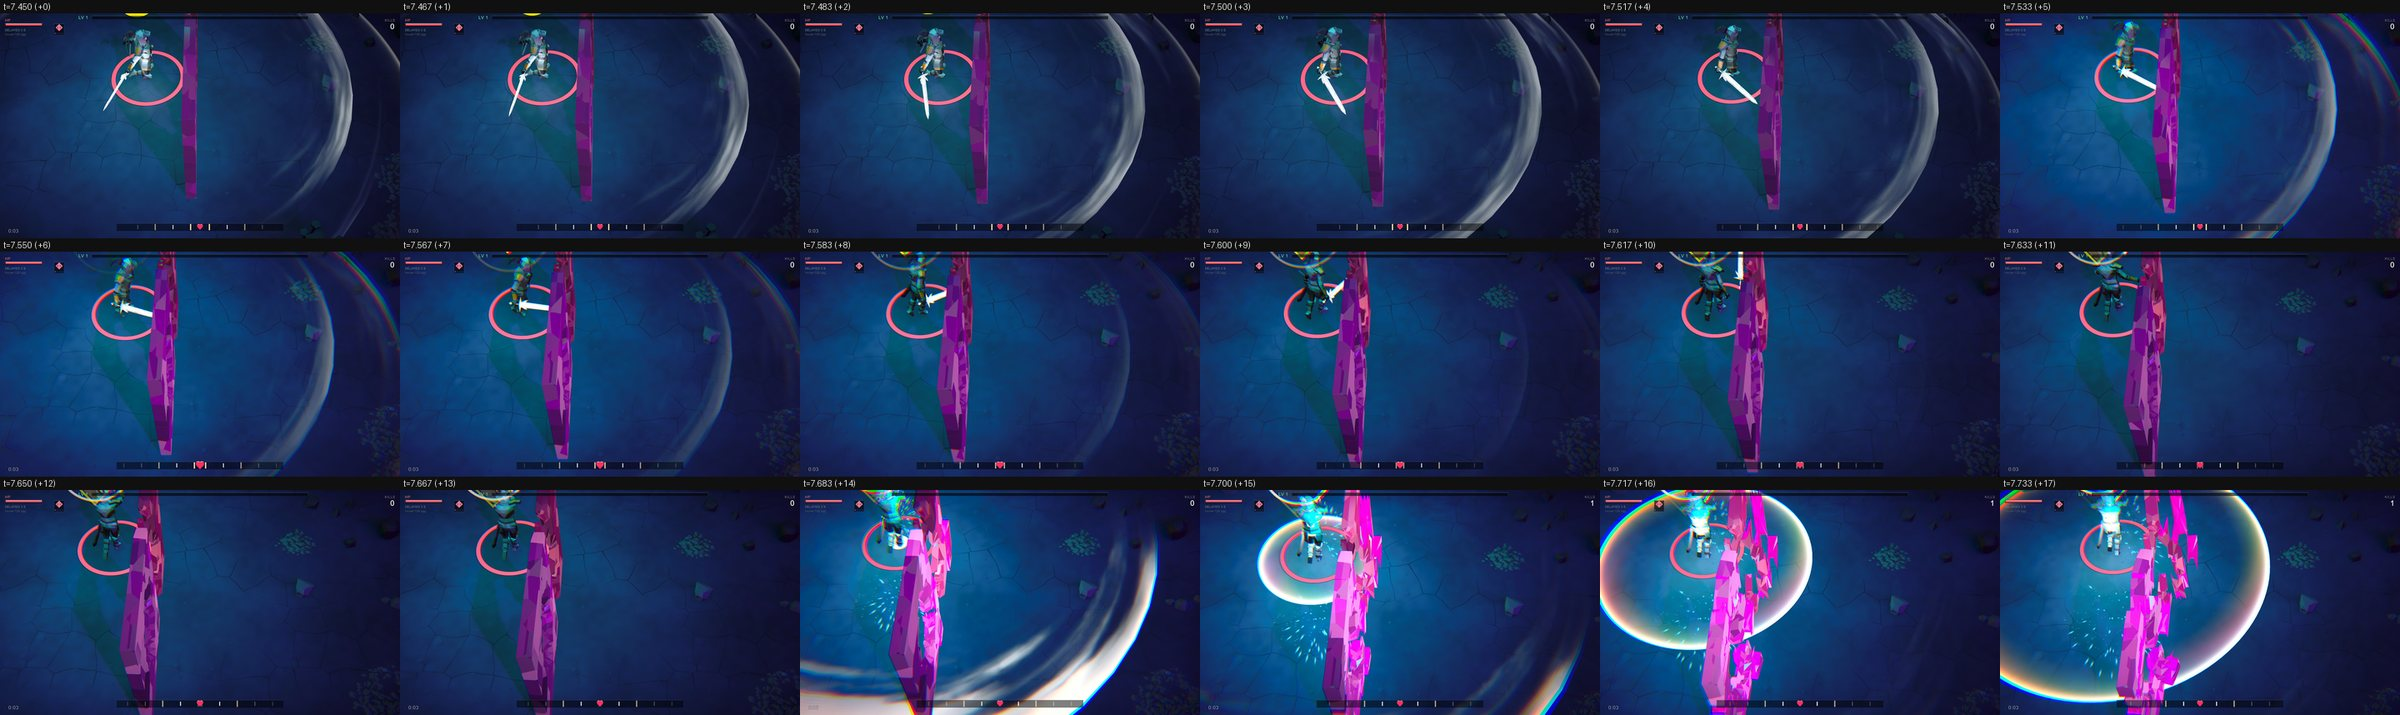
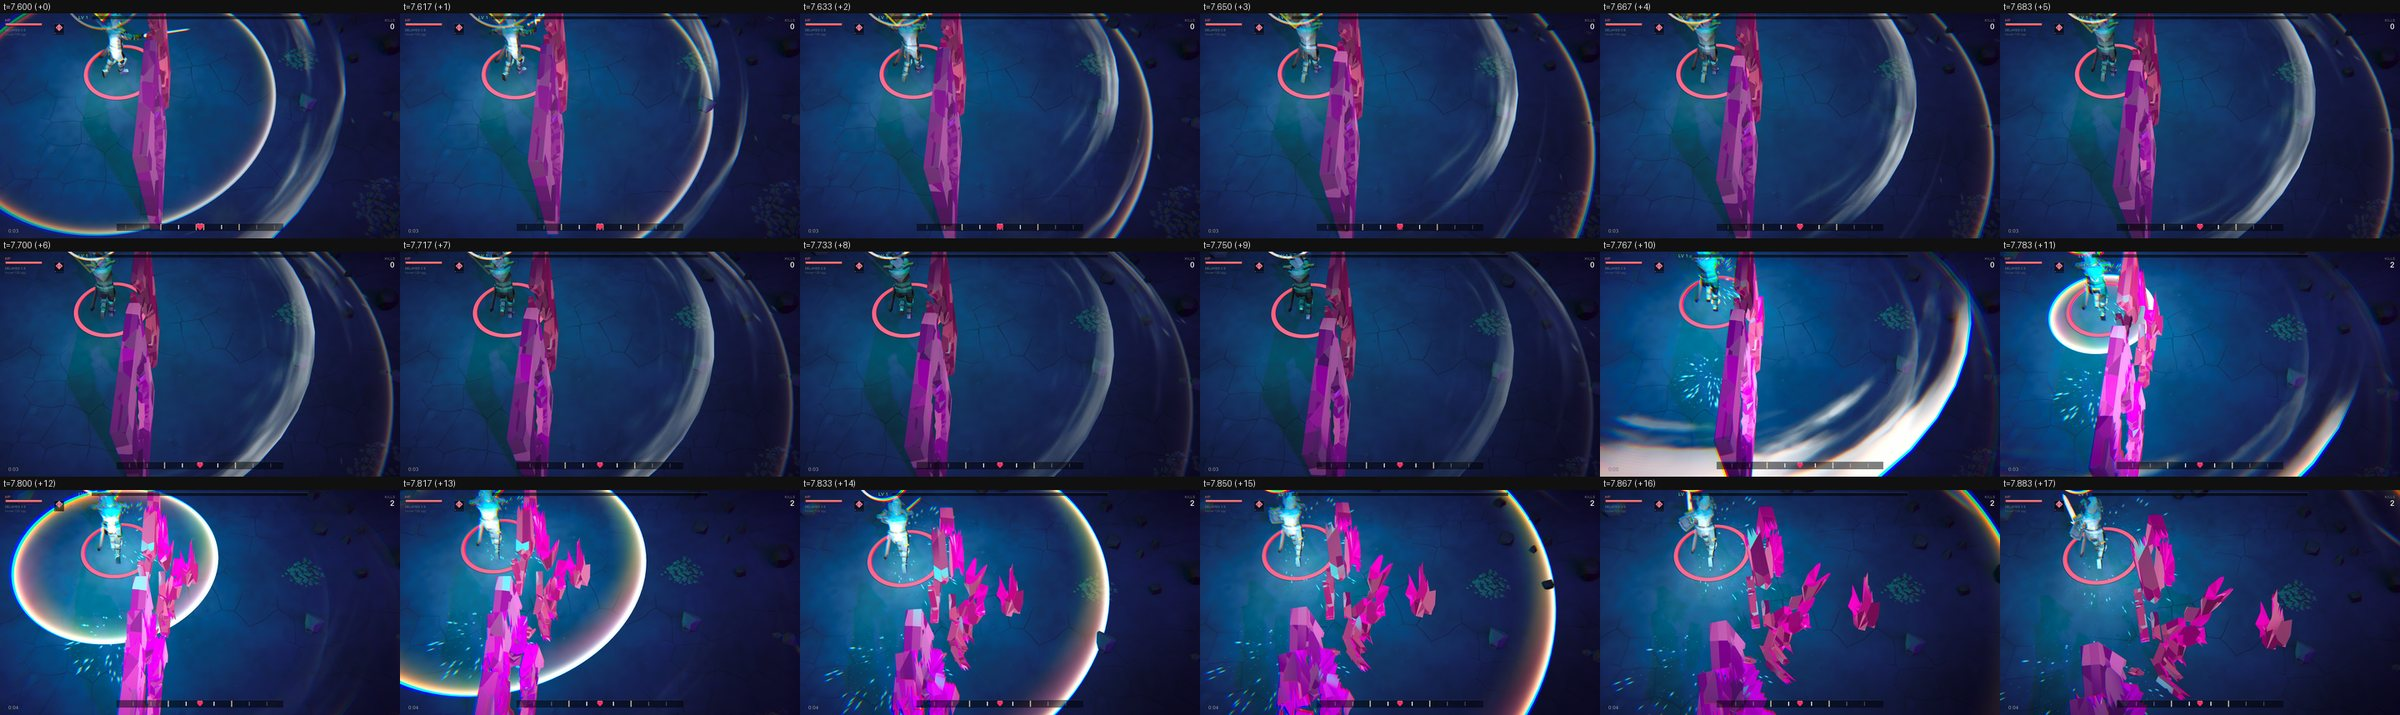
docs(game): react now, land on the grid — the free mode's design closes the early-press question, and its evidence tables each press against its eighth, with a strip of a heavy press winding up on its key-down frame and breaking a wall on the half beat (ps-w9p.1)

diff --git a/game/Assets/Game/Client/Hero/HeroMotion.cs b/game/Assets/Game/Client/Hero/HeroMotion.cs
@@ -57,8 +57,9 @@ namespace Game.Client.Hero
     /// - **Attacks**: each clip is retimed so its impact frame lands on the attack's impact
     ///   (<see cref="HeroClips.Fit"/>; a long wind-up coils rather than starting late), entered no earlier than the
     ///   wind-up, so the swing before it keeps its own impact, and showing on its entry frame. A free press's wind-up
-    ///   starts at the press, in heard time, so it arrives on the key-down frame, as a pressed step does. Slashes alternate left and right; a follow-up continues the combo from
-    ///   the swing before (left, right, then the third); heavy strikes spin and section changes slam,
+    ///   starts at the press, in heard time, so it arrives on the key-down frame, as a pressed step does. Slashes
+    ///   alternate left and right; a follow-up continues the combo from the swing before (left, right, then the
+    ///   third); heavy strikes spin and section changes slam,
     ///   holding 50 ms at 0.6x after the impact as demo3d's heavy blows do. The hero turns to the
     ///   swing's direction from its wind-up to its follow-through.
     /// </summary>

diff --git a/game/evidence/operator-pending.md b/game/evidence/operator-pending.md
@@ -42,4 +42,5 @@ operator (epic ps-msz; native's own list is native/evidence/operator-pending.md)
 | The payoff's sound by ear (ps-msz.8.6) | With the speakers on, play from minute 25 with Garlic's evolution and Holy Wand, walking the knight into the horde, then let the finale fire at 60 s: Soul Eater's pulse still swells on its beat though its sound now starts a few hundredths into its clip (its lead-in is longer than the lead allows; the start's timing is measured in Unity's mix since ps-msz.8.13, so listen for how it sounds), and the evolution's transformation sound at 5 s too; the busy peak never drops a swing or cuts one short (the pool is now 64 voices, the hero's own spared); the finale is one crash of glass. Note any sound that clicks as it starts or stops, or a pulse that reads as clipped | `just game --run --file "$PWD/public/reactive/cc-kevin-macleod-go-cart/cc-kevin-macleod-go-cart.ogg" --start-minute 25 --debug "evolve:soul-eater@5,evolve:holy-wand@5,finale@60"` | ps-msz.8.6 | ps-msz.10 |
 | A windowed run's timing log (ps-sba) | Play a minute of any track in a window, then run `just game-tool log`: the newest session's summary has GPU and render-thread times (not missing as in batch mode), intervals near your display's refresh, and any hitch you saw listed at its song time. Note a hitch you saw that it doesn't list | `just game --run --file "$PWD/public/reactive/house-128/house-128.ogg"`, then `just game-tool log` | ps-sba | (none yet) |
 | M5 needs a vizier on Cygnus (ps-msz.9.1) | M5's beads (ps-msz.9.2 to ps-msz.9.14: native's workspace and the plugin on Windows, the Windows player, Delayed listening with the guardian process, performance against the targets) are pinned to Cygnus (`enact_host=cygnus`), so the Mac's vizier never runs them and the run waits for them. On Cygnus, with the start-up checkout at `C:\src\playlist_survivors` pulled clean, start a Claude Code session there and run the command: its vizier picks up M5 (ps-msz.9.3 is ready first). Keep Cygnus awake, Unity licensed and the vendor sources on D: while it runs; steps that need administrator rights come back as rows here | `/enact-plan ps-msz` | ps-msz.9.1 | ps-msz.9.14 |
-| The free mode by hand (ps-y21) | With the speakers on, play house-128 in the slice in the free mode. Walk with the arrows (eight ways), then click and hold on the arena: the knight runs smoothly, turns on the frame the key goes down, follows the held cursor and stops on a click's point, and slides along structures. Press Z on the beat, then between beats, then mash it: on the beat (or the half beat) the slash is full size; clearly off it, visibly smaller and weaker; mashing swings at most about five times a second; on an accented beat a full press spins with its cleave wave. Play the piano aria's beatless opening too: every press is full. Note whether 70 ms reads as generous enough, the 80 ms from press to impact as laggy, the run cycle as sliding, or the walk as too unrhythmic (docs/design/game-modes.md, Open questions) | `just game --mode free --file "$PWD/public/reactive/house-128/house-128.ogg"`, then `--file "$PWD/public/reactive/cc-kimiko-ishizaka-aria/cc-kimiko-ishizaka-aria.ogg"` | ps-y21 | ps-y21's follow-ups |
+| The free mode by hand (ps-y21) | With the speakers on, play house-128 in the slice in the free mode. Walk with the arrows (eight ways), then click and hold on the arena: the knight runs smoothly, turns on the frame the key goes down, follows the held cursor and stops on a click's point, and slides along structures. Press Z on the beat, then between beats, then mash it: on the beat (or the half beat) the slash is full size; clearly off it, visibly smaller and weaker; mashing swings at most about five times a second; on an accented beat a full press spins with its cleave wave. Play the piano aria's beatless opening too: every press is full. Note whether 70 ms reads as generous enough, the run cycle as sliding, or the walk as too unrhythmic (docs/design/game-modes.md, Open questions) | `just game --mode free --file "$PWD/public/reactive/house-128/house-128.ogg"`, then `--file "$PWD/public/reactive/cc-kimiko-ishizaka-aria/cc-kimiko-ishizaka-aria.ogg"` | ps-y21 | ps-y21's follow-ups |
+| React now, land on the grid by hand (ps-w9p.1) | With the speakers on, play house-128 in the slice in the free mode, then hiphop-92-swing. Press Z on the beat, on the half beat, just before each and mashing: the knight starts its swing on the frame the key goes down, and the blow, the kill sound and the shatter land on the next beat or half beat, never between. Note whether that eighth's wait (about a quarter second at 128 BPM) reads as a weighty wind-up or as lag, whether a press just before an eighth (a short, part-way wind-up) reads as snappy or clipped, and on the slow track whether the long wind-up's coil reads as anticipation or as a stall. Evidence: game/evidence/free-mode (docs/design/game-modes.md, Attacking on the beat; Open questions) | `just game --mode free --file "$PWD/public/reactive/house-128/house-128.ogg"`, then `--file "$PWD/public/reactive/hiphop-92-swing/hiphop-92-swing.ogg"` (92 BPM) | ps-w9p.1 | ps-w9p's follow-ups |

diff --git a/docs/design/game-modes.md b/docs/design/game-modes.md
@@ -79,10 +79,28 @@ song time, cycling the run clip once per 3 m walked, with no hop.
 
 The sword never strikes by itself. Z (the sim's `Key.Attack`) swings it:
 
-- **Timing**: a press heard at h, taken at F, winds up at once and lands at
-  `max(h + 0.08 s, F + a tick)`. Presses' impacts are at least 0.2 s apart (the swing). A press that
-  would wait more than 0.1 s for the swing before it is dropped, so mashing swings at most five
-  times a second, and a press mid-swing never queues.
+- **Timing: react now, land on the grid** (ps-w9p.1, Hi-Fi Rush's answer). Landing kill sounds and impact
+  FX on the beat is much of why the trailer works, but the knight must answer Z at once. So a press heard
+  at h winds up from h, in heard time like the walk's keys, so the knight is in the attack on the key-down
+  frame, and its impact lands on the **first eighth** of the beat (a beat or half beat, from the beats
+  revealed then) at least **0.12 s** (`Sword.GridWindupS`) after h. The blows, deaths, kill sounds,
+  shatters and structure breaks all follow the impact, so they land on the grid too.
+  - A press in time therefore hits an eighth later: one on the beat lands on the half beat after it,
+    one on the half beat on the next beat. 0.12 s keeps that true for every full-grade press up to about
+    158 BPM, and leaves the slash clips a visible wind-up even at their fastest retime; at 120 BPM a press
+    in time waits 0.18-0.32 s, about the clips' whole wind-up.
+  - The clip is retimed to fill the wait (`HeroClips.Fit`): from its first frame at the press when the wait
+    fits 0.75x-1.33x; a shorter wait (a press just before an eighth) enters it part-way, still in the
+    wind-up; a longer one (a slow tempo, a late press) **coils**, playing the first 60% of the way to the
+    impact slowly, then the strike at 0.75x, rather than starting late with nothing on screen.
+  - With no reliable beat at the press there is no grid: the impact is `max(h + 0.08 s, F + a tick)`, as
+    before.
+- **The swing**: presses' main impacts are at least 0.2 s apart, on the next eighth that leaves that much
+  (so faster than 150 BPM, where an eighth is shorter than the swing, a press skips one). A press that would
+  wait more than 0.1 s past its own landing for the swing before it is dropped: on the grid, one that would
+  land on the eighth the pending swing already has. That swing is on screen, so a press is never swallowed
+  while the knight shows nothing. A press during the swing before winds up from that swing's impact, which
+  it keeps.
 - **Grade** (`BeatGrade`): the press, in heard time, against the nearest beat or half beat of
   its beat interval. Within 70 ms it is full; from there it falls linearly to 0.5 at a quarter
   beat off, the furthest a press can be from that grid. At 120 BPM a press is full for about
@@ -93,9 +111,11 @@ The sword never strikes by itself. Z (the sim's `Key.Attack`) swings it:
 - **Heavy**: a full-grade press measured from a beat (not a half beat) that is accented, as the
   grid's heavy strikes ask (a strong onset or accent forecast within 50 ms), is a heavy spin
   with its cleave wave, which breaks structures. Once per beat. F6's forced accent makes the next
-  press heavy.
-- **Amount** (the sword's rank 2 on, Duplicator and the like) adds follow-up strikes spread over
-  the swing; they never delay the next press, whose impact needs only 0.2 s after the last press's.
+  press heavy. The spin lands an eighth after the accent, like any press in time, and its cleave's
+  bands follow on the grid: the first on the eighth after the impact, the rest a sixteenth apart.
+- **Amount** (the sword's rank 2 on, Duplicator and the like) adds follow-up strikes spread evenly
+  to the next eighth (rank 2's on the sixteenth; over the swing with no beat); they never delay the
+  next press, whose impact needs only 0.2 s after the last press's.
 - Free presses never slam on a section change.
 
 The other weapons (wand, bible, lightning, garlic, fire trail) keep firing on the beat by
@@ -111,7 +131,10 @@ themselves, aimed from wherever the hero walks.
 
 - Is 70 ms the right full-grade window, and 0.5 the right floor? Both are constants in
   `BeatGrade`.
-- Should an early press's impact wait for the beat it was graded on, so the hit lands on it?
-  Today every impact comes 80 ms after the press.
+- Does the eighth's wait from press to impact (about 0.25 s at 120 BPM) read as weighty or as laggy,
+  and does the coil read as anticipation or as a stall at slow tempos? (Closed: an early press's impact
+  now waits for the grid, ps-w9p.1.)
+- Should a heavy land on the accent itself (a press an eighth before it) rather than an eighth after a
+  press on it? Today the grade and the heavy are both judged on the press.
 - Does the walk need a pulse on the beat to read as rhythmic, now that the hero glides?
 - Click-to-move without path finding: is pressing against a wall acceptable?

diff --git a/game/evidence/free-mode/README.md b/game/evidence/free-mode/README.md
@@ -14,7 +14,7 @@ WALK="right@6-7.5,up@7-8.5,left@8.5-9.5,z@6.5-6.52,z@6.6-6.62,z@7.0-7.02,z@7.25-
 EXE="game/Builds/mac/mono/PlaylistSurvivors.app/Contents/MacOS/Playlist Survivors"
 "$EXE" -batchmode -force-metal --fixed-time --no-session --mode free --file "$PWD/public/reactive/house-128/house-128.ogg" \
   --walk "$WALK" --seconds 11 --events-out captures/game/free-mode/events.csv --hero-out captures/game/free-mode/hero.csv
-uv run --project demo3d/tools game look free-mode --backend mono --at 7.45 --frames 18 --strip 6 --evidence free-mode \
+uv run --project demo3d/tools game look free-mode --backend mono --at 7.6 --frames 18 --strip 6 --evidence free-mode \
   --player-args "--mode free --file $PWD/public/reactive/house-128/house-128.ogg --walk $WALK --view-width 10"
 ```
 
@@ -23,22 +23,28 @@ uv run --project demo3d/tools game look free-mode --backend mono --at 7.45 --fra
 - **The walk**: 11 HeroGlide events and no HeroStep. The drawn hero moves 0.0752 m a frame on each
   axis on the diagonal (6.4 m/s, a 1.5 m tile per 0.234 s stride step), at off-grid points such as
   (8.036, -1.347), with the run clip weighted 1 and no hop.
-- **The swings**, as `events.csv` has them (press, impact, reach; full reach is 7.037 m):
+- **The swings** (since ps-w9p.1: react now, land on the grid), as `events.csv` has them: each attack's wind-up
+  start, impact and reach (full reach is 7.037 m), against the beat. The tracker's beats here are 0.47 s apart
+  (6.12, 6.59, 7.06, 7.53, 8.00, 8.47, 8.93, 9.40), so the eighths fall on them and halfway between:
 
-  | Press (s) | Impact (s) | Reach (m) | Grade | Note |
-  |---|---|---|---|---|
-  | 6.50 | 6.58 | 5.56 | 0.79 | off the beat |
-  | 6.60 | 6.78 | 7.04 | 1 | mid-swing: waited for the swing, 0.2 s after the one before |
-  | 7.00 | 7.08 | 7.04 | 1 | |
-  | 7.25 | 7.33 | 7.04 | 1 | |
-  | 7.60 | 7.68 | 9.15 | 1 | on an accented beat: a heavy spin (x1.3 reach) |
-  | 8.00 | 8.08 | 7.04 | 1 | |
-  | 8.35 | 8.43 | 3.70 | 0.53 | close to a quarter beat off |
-  | 8.90 | 8.98 | 7.04 | 1 | |
+  | Press (s) | Wind-up from (s) | First eighth 0.12 s on | Impact (s) | Grid point | Reach (m) | Grade | Note |
+  |---|---|---|---|---|---|---|---|
+  | 6.50 | 6.50 | 6.825 | 6.825 | half beat | 5.56 | 0.79 | off the beat |
+  | 6.60 | | 6.825 | | | | | lands on the eighth the swing before has: dropped mid-wind-up |
+  | 7.00 | 7.00 | 7.295 | 7.295 | half beat | 7.04 | 1 | |
+  | 7.25 | 7.295 | 7.53 | 7.53 | beat | 7.04 | 1 | winds up from the swing before's impact, which it keeps |
+  | 7.60 | 7.60 | 7.765 | 7.765 | half beat | 9.15 | 1 | full on the accented beat 7.53: a heavy spin; its cleave's bands from 8.00 a sixteenth (0.1175 s) apart |
+  | 8.00 | 8.00 | 8.235 | 8.235 | half beat | 7.04 | 1 | |
+  | 8.35 | 8.35 | 8.47 | 8.47 | beat | 3.70 | 0.53 | close to a quarter beat off |
+  | 8.90 | 8.90 | 9.165 | 9.165 | half beat | 7.04 | 1 | |
 
-- **[free-mode.jpg](free-mode.jpg)**, 7.45 to 7.73 s a frame apart: the knight walks up beside a
-  crystal wall swinging, then the heavy press at 7.68 s spins with its cleave wave and breaks the
-  wall on the impact frame.
+  Every impact is on an eighth, and so are the deaths and structure breaks: the spin's at 7.765, its cleave's at
+  8.00, 8.1175, 8.235 and on. The drawn hero (`hero.csv`) is in the attack on each key-down frame: at 6.500 the
+  SlashL clip at 0.000 s with the attack weighted 0.17, its wind-up running 0.325 s to the impact frame (6.833, the
+  clip past its 0.35 s impact, the blade's flare up).
+- **[free-mode.jpg](free-mode.jpg)**, 7.60 to 7.88 s a frame apart: the knight beside a crystal wall winds up from
+  the heavy press's key-down frame (+0) and spins on the half beat at 7.765 s (+10), breaking the wall and sending
+  out its cleave wave on the impact frame.
 
-How it feels by hand (the pointer, the timing window, the 80 ms from press to impact) is on
+How it feels by hand (the pointer, the timing window, the eighth's wait from press to impact) is on
 [the operator's list](../operator-pending.md).

diff --git a/game/evidence/README.md b/game/evidence/README.md
@@ -96,4 +96,5 @@ what was run (the exact commands), the numbers, and what they show.
   for a real-time run at the peak, with its allocation census against a run without one, and its session
   replayed with the `--*-out` flags (ps-sba).
 - [free-mode](free-mode/README.md): `--mode free`, the hero walking off the grid and Z's swings graded by
-  the beat, a heavy one on an accent (ps-y21).
+  the beat, a heavy one on an accent (ps-y21); each winding up on its key-down frame and landing on the
+  next eighth (ps-w9p.1).
